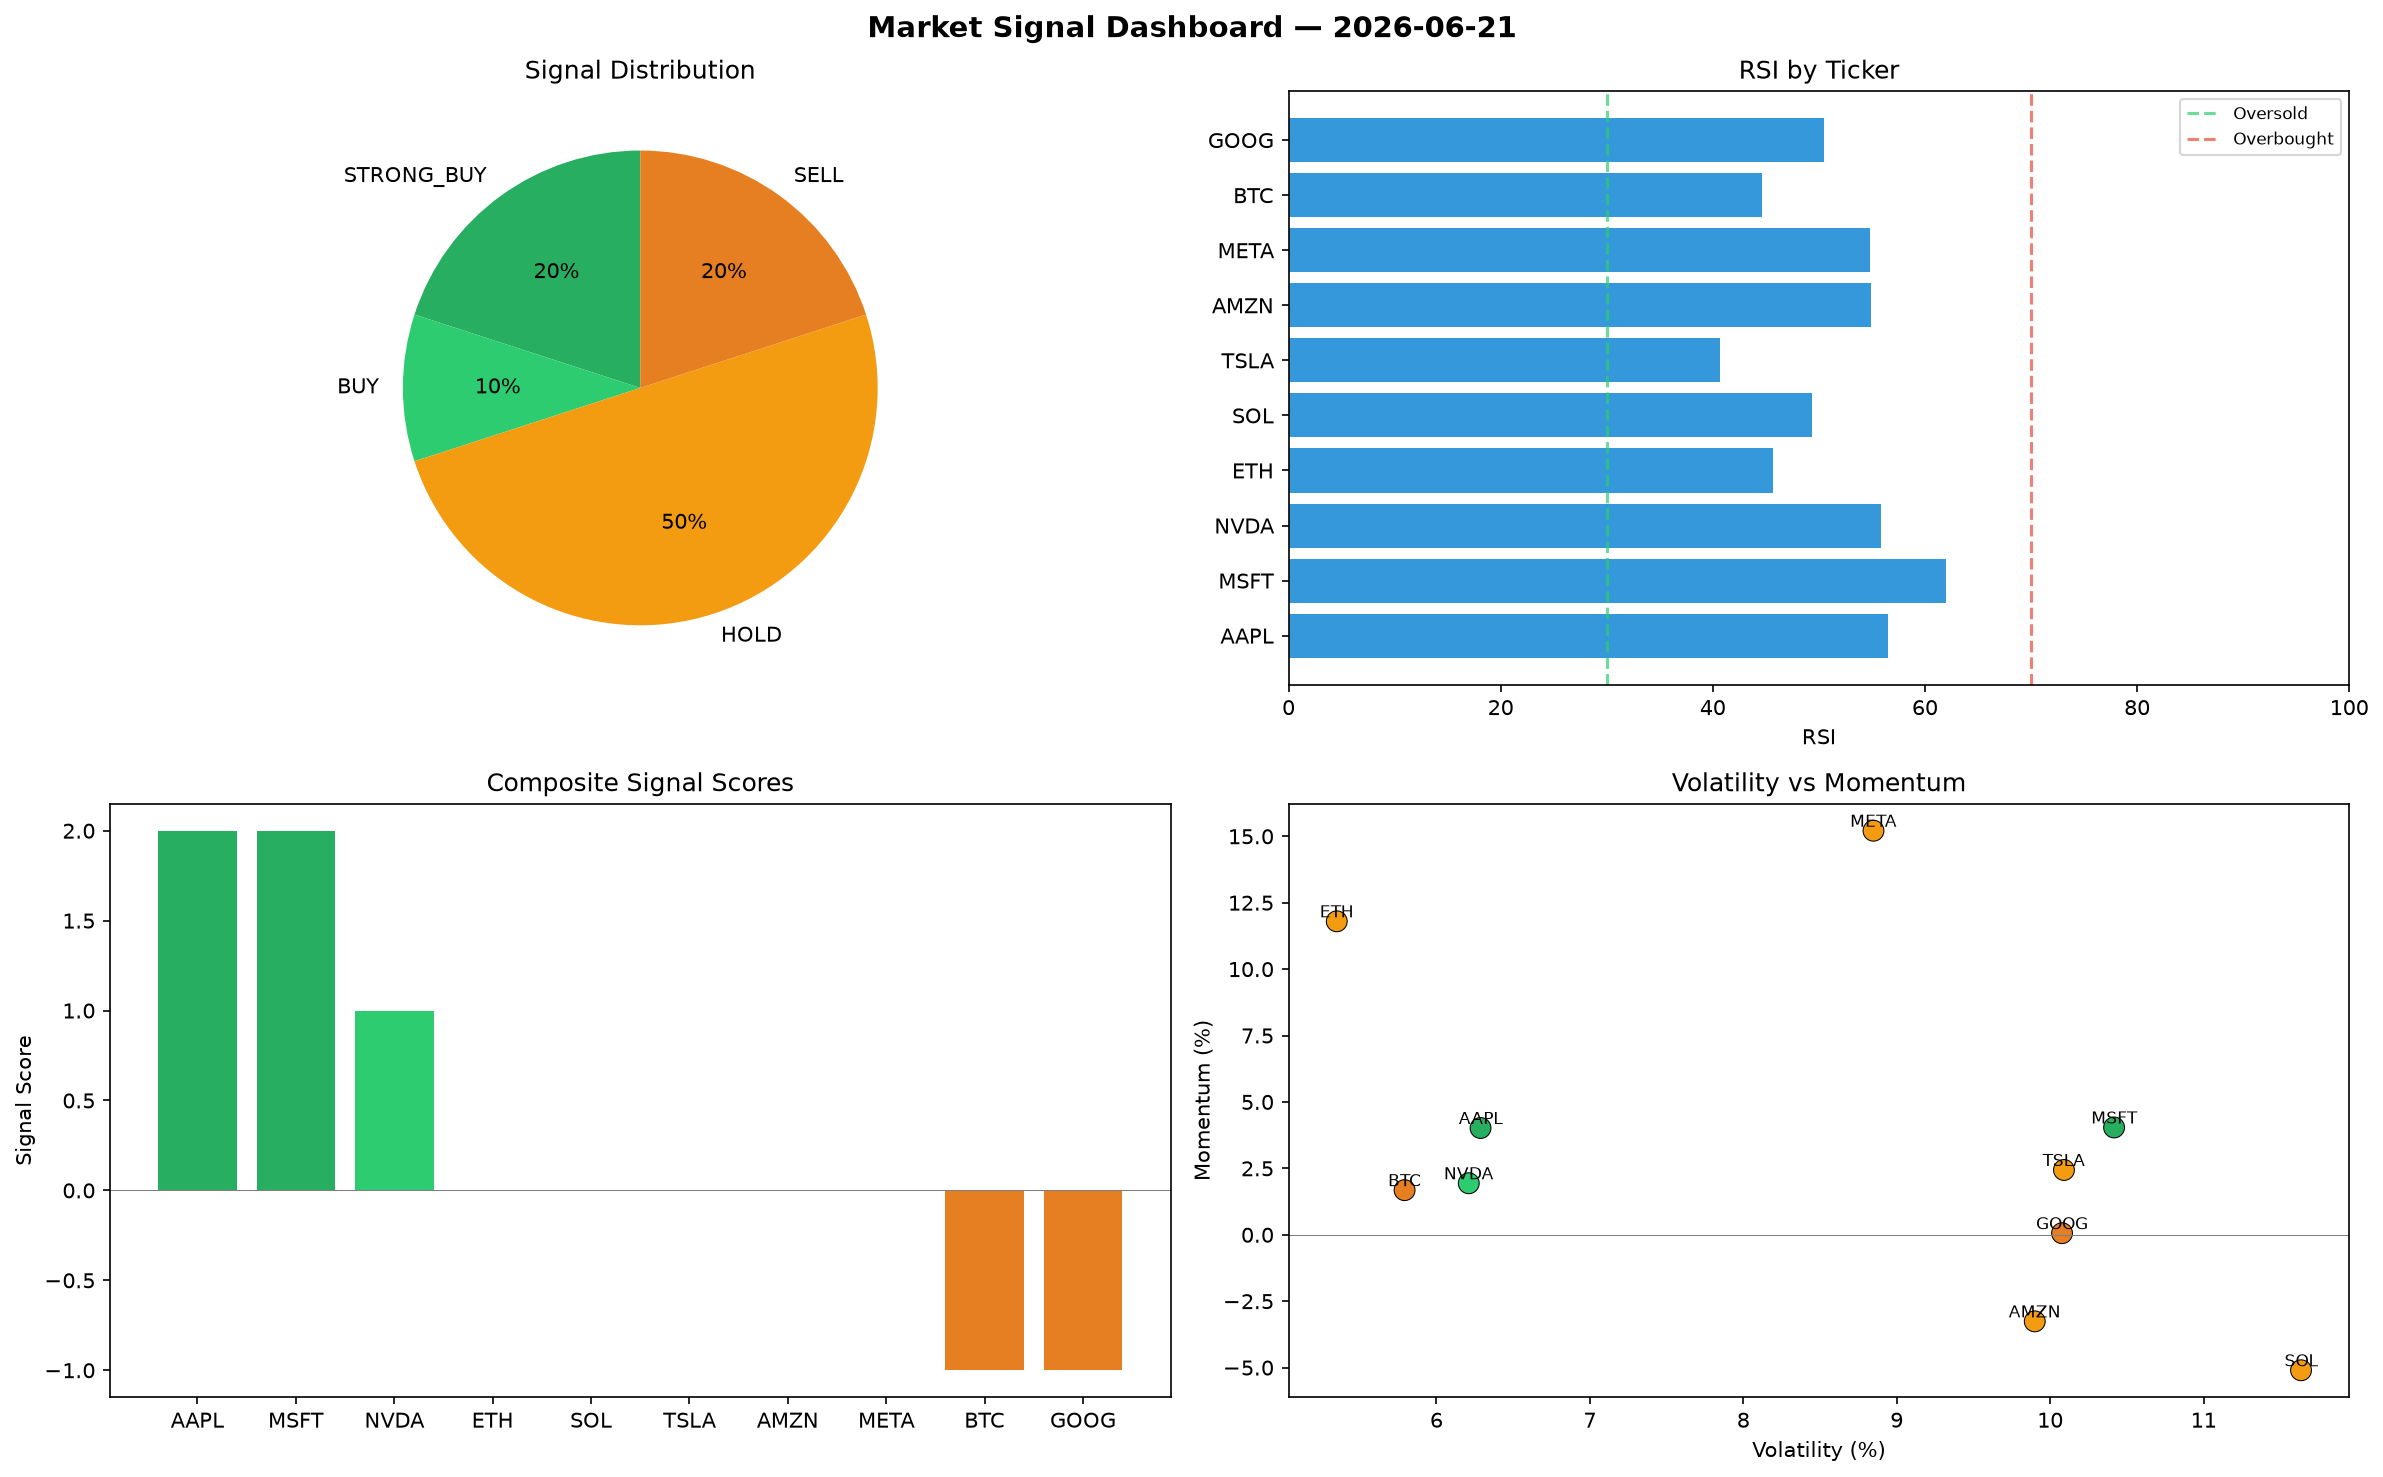
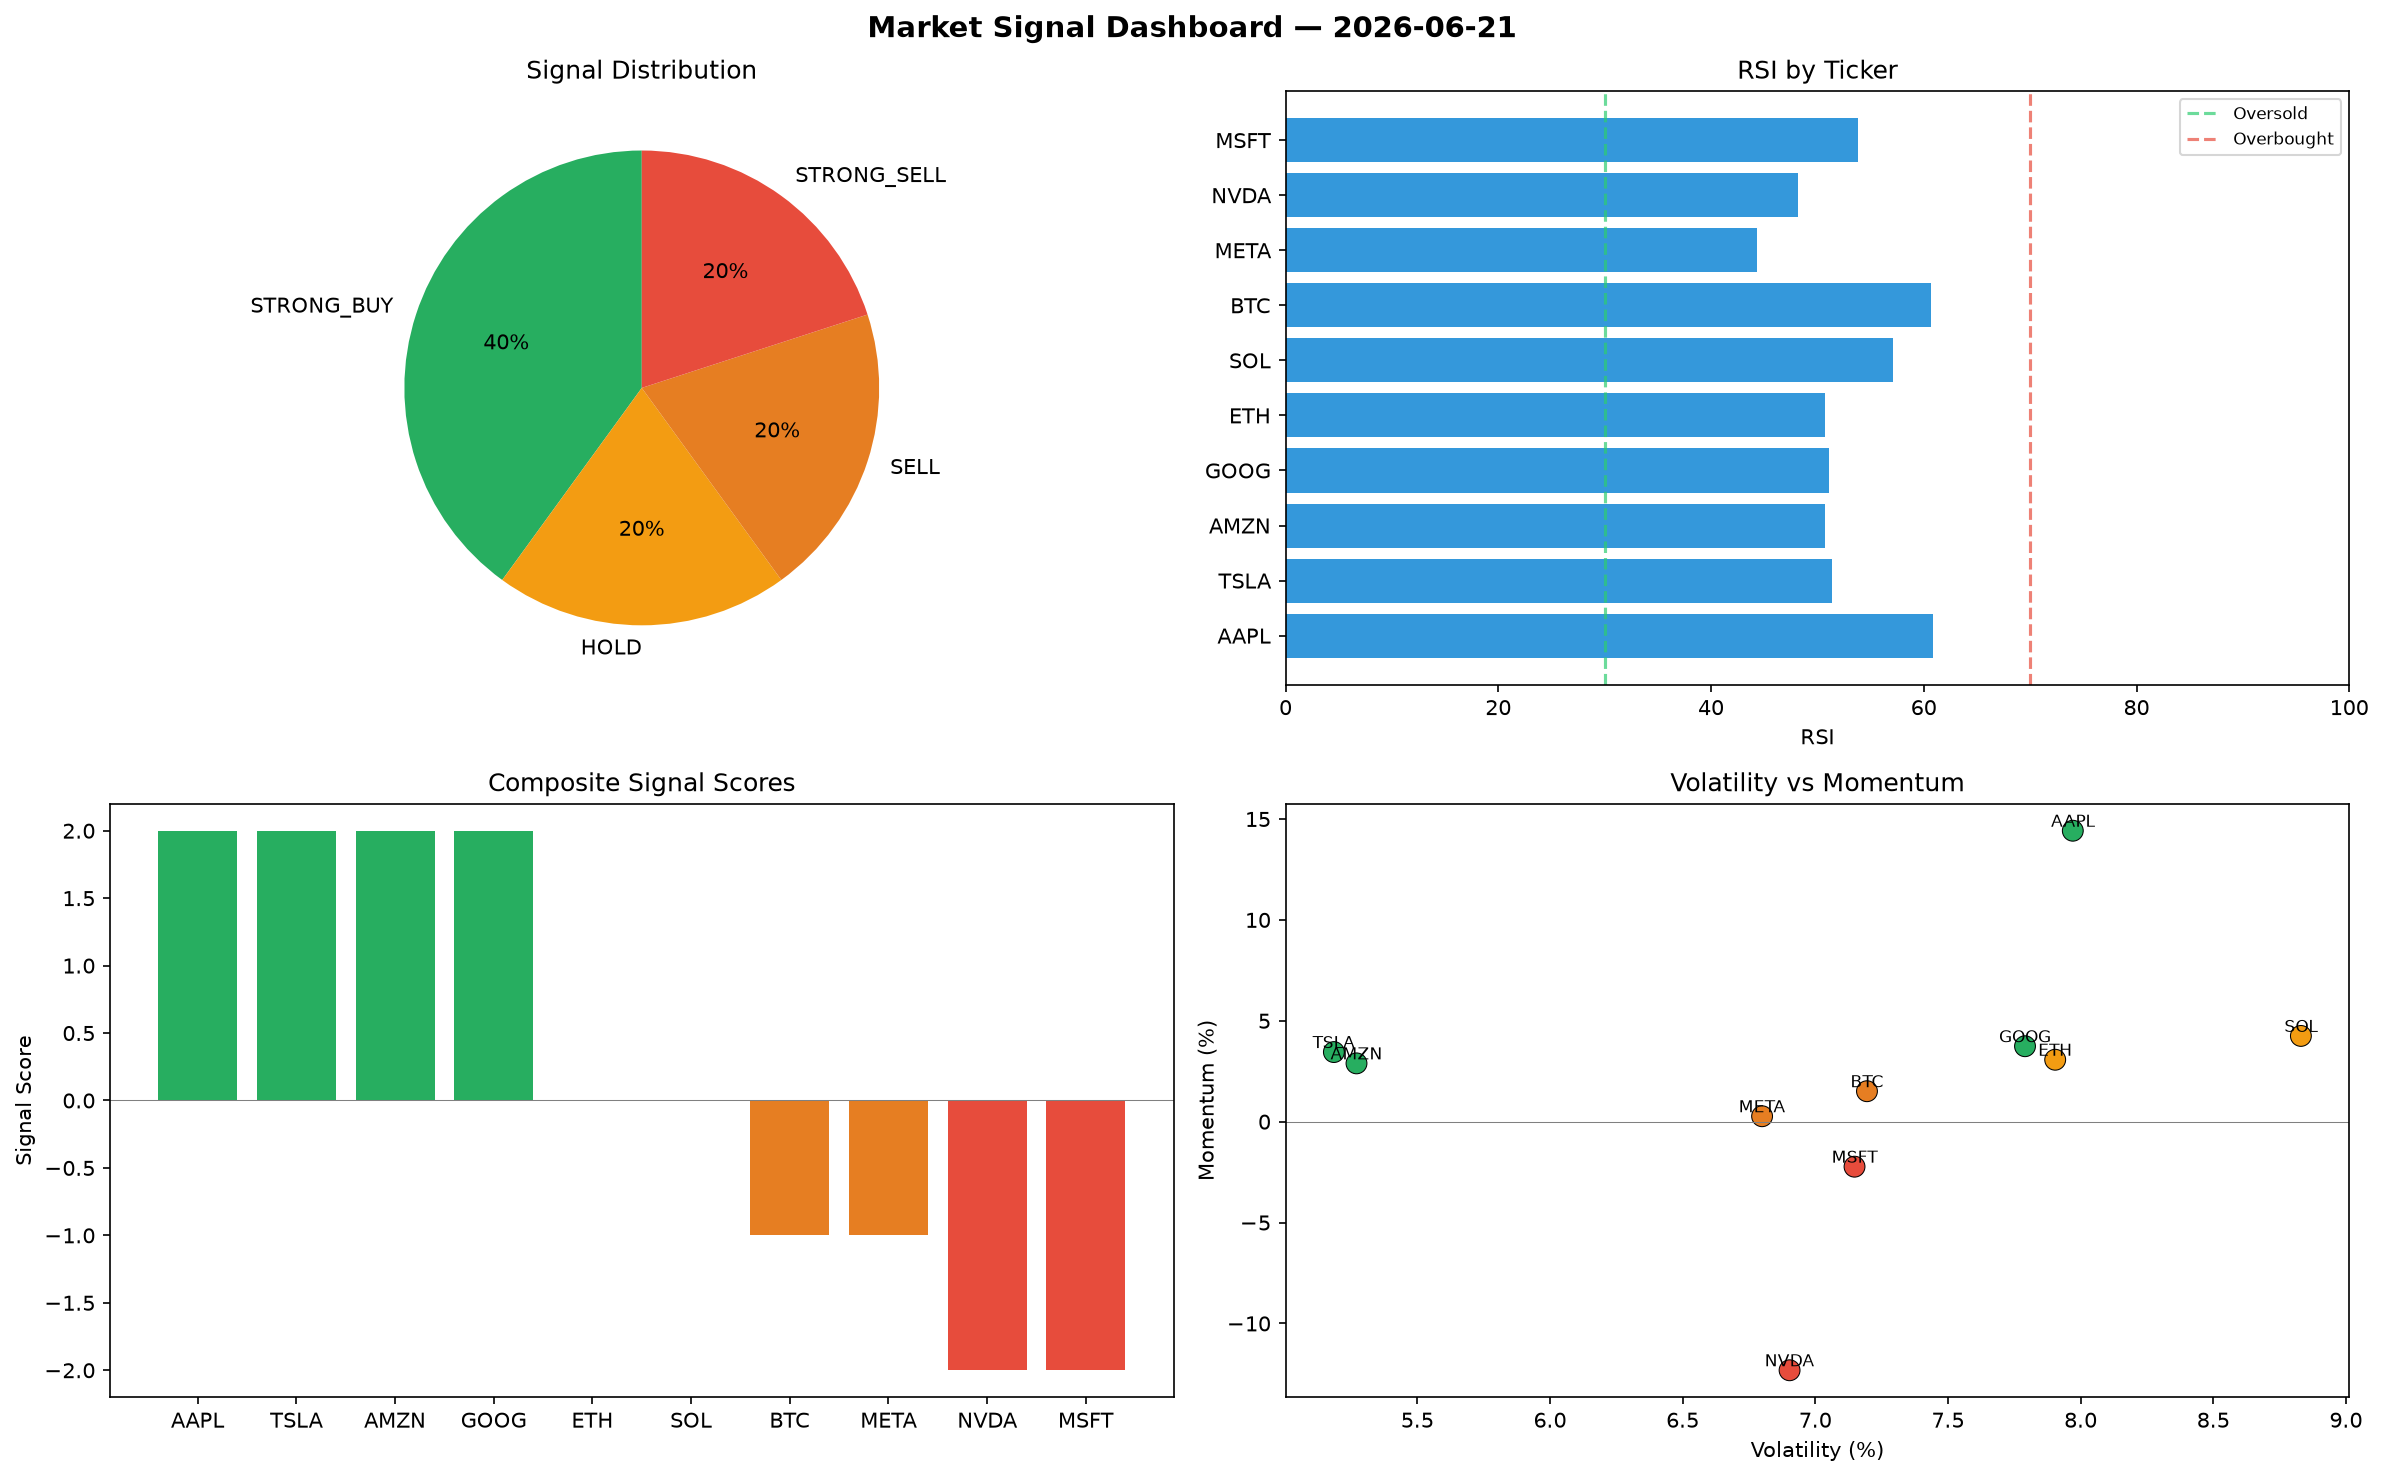
automated-bots: market signals 2026-06-21T16:15

diff --git a/logs/2026-06-21.md b/logs/2026-06-21.md
@@ -1,6 +1,6 @@
 # Market Signal Report — 2026-06-21
 
-**Run ID:** `9e2f6b3721` | **Buy:** 3 | **Sell:** 2 | **Hold:** 5
+**Run ID:** `99e29c4b66` | **Buy:** 4 | **Sell:** 4 | **Hold:** 2
 
 ![Dashboard](2026-06-21_dashboard.png)
 
@@ -8,28 +8,28 @@
 
 | Ticker | Price | Signal | Score | RSI | Momentum | Confidence |
 |--------|-------|--------|-------|-----|----------|------------|
-| AAPL | $1577.09 | **STRONG_BUY** | 2 | 56.55 | 0.0402 | 0.5 |
-| MSFT | $4990.78 | **STRONG_BUY** | 2 | 61.96 | 0.0404 | 0.5 |
-| NVDA | $1196.09 | **BUY** | 1 | 55.87 | 0.0194 | 0.25 |
-| ETH | $1839.45 | **HOLD** | 0 | 45.68 | 0.118 | 0.0 |
-| SOL | $2296.67 | **HOLD** | 0 | 49.31 | -0.051 | 0.0 |
-| TSLA | $4702.11 | **HOLD** | 0 | 40.71 | 0.0244 | 0.0 |
-| AMZN | $3984.03 | **HOLD** | 0 | 54.87 | -0.0326 | 0.0 |
-| META | $2310.45 | **HOLD** | 0 | 54.79 | 0.1521 | 0.0 |
-| BTC | $3856.91 | **SELL** | -1 | 44.62 | 0.0168 | 0.25 |
-| GOOG | $927.57 | **SELL** | -1 | 50.52 | 0.0006 | 0.25 |
+| AAPL | $2208.09 | **STRONG_BUY** | 2 | 60.83 | 0.1442 | 0.5 |
+| TSLA | $4911.44 | **STRONG_BUY** | 2 | 51.4 | 0.0345 | 0.5 |
+| AMZN | $1261.04 | **STRONG_BUY** | 2 | 50.67 | 0.0289 | 0.5 |
+| GOOG | $1802.09 | **STRONG_BUY** | 2 | 51.1 | 0.0374 | 0.5 |
+| ETH | $1928.08 | **HOLD** | 0 | 50.7 | 0.0307 | 0.0 |
+| SOL | $2246.39 | **HOLD** | 0 | 57.12 | 0.0425 | 0.0 |
+| BTC | $3567.79 | **SELL** | -1 | 60.72 | 0.0151 | 0.25 |
+| META | $2914.43 | **SELL** | -1 | 44.33 | 0.0027 | 0.25 |
+| NVDA | $4530.47 | **STRONG_SELL** | -2 | 48.18 | -0.1232 | 0.5 |
+| MSFT | $1090.55 | **STRONG_SELL** | -2 | 53.8 | -0.0223 | 0.5 |
 
 ## Delta vs Yesterday
 
 | Ticker | Today | Yesterday | Price Change | Signal Changed |
 |--------|-------|-----------|-------------|----------------|
-| AAPL | STRONG_BUY | STRONG_BUY | 📉 -48.83% | — |
-| MSFT | STRONG_BUY | BUY | 📈 594.24% | ⚠ YES |
-| NVDA | BUY | SELL | 📉 -34.02% | ⚠ YES |
-| ETH | HOLD | STRONG_BUY | 📉 -65.23% | ⚠ YES |
-| SOL | HOLD | STRONG_BUY | 📉 -52.17% | ⚠ YES |
-| TSLA | HOLD | HOLD | 📈 984.03% | — |
-| AMZN | HOLD | BUY | 📉 -18.36% | ⚠ YES |
-| META | HOLD | BUY | 📈 9.53% | ⚠ YES |
-| BTC | SELL | STRONG_SELL | 📈 1745.85% | ⚠ YES |
-| GOOG | SELL | HOLD | 📉 -79.47% | ⚠ YES |
+| AAPL | STRONG_BUY | STRONG_BUY | 📉 -28.36% | — |
+| TSLA | STRONG_BUY | HOLD | 📈 1032.29% | ⚠ YES |
+| AMZN | STRONG_BUY | BUY | 📉 -74.16% | ⚠ YES |
+| GOOG | STRONG_BUY | HOLD | 📉 -60.11% | ⚠ YES |
+| ETH | HOLD | STRONG_BUY | 📉 -63.56% | ⚠ YES |
+| SOL | HOLD | STRONG_BUY | 📉 -53.22% | ⚠ YES |
+| BTC | SELL | STRONG_SELL | 📈 1607.49% | ⚠ YES |
+| META | SELL | BUY | 📈 38.17% | ⚠ YES |
+| NVDA | STRONG_SELL | SELL | 📈 149.91% | ⚠ YES |
+| MSFT | STRONG_SELL | BUY | 📈 51.7% | ⚠ YES |
